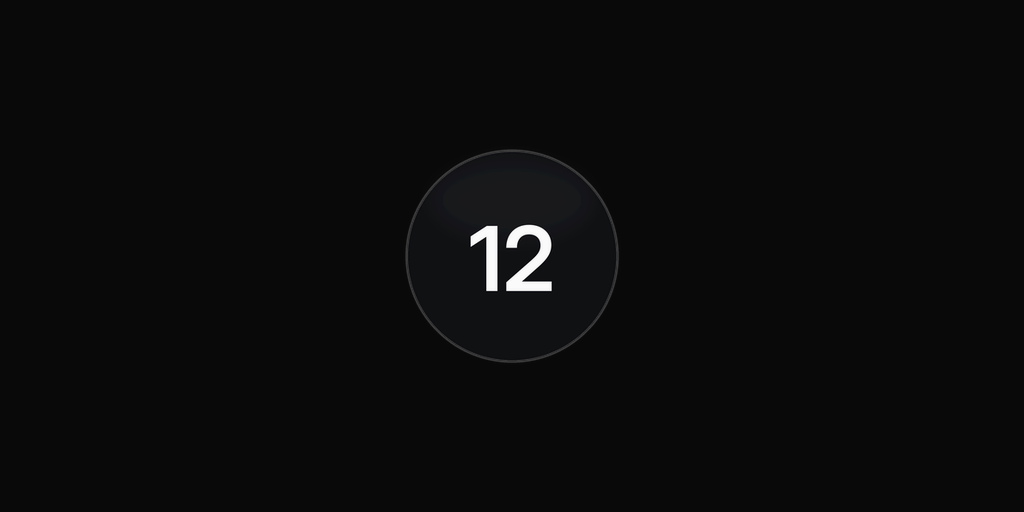
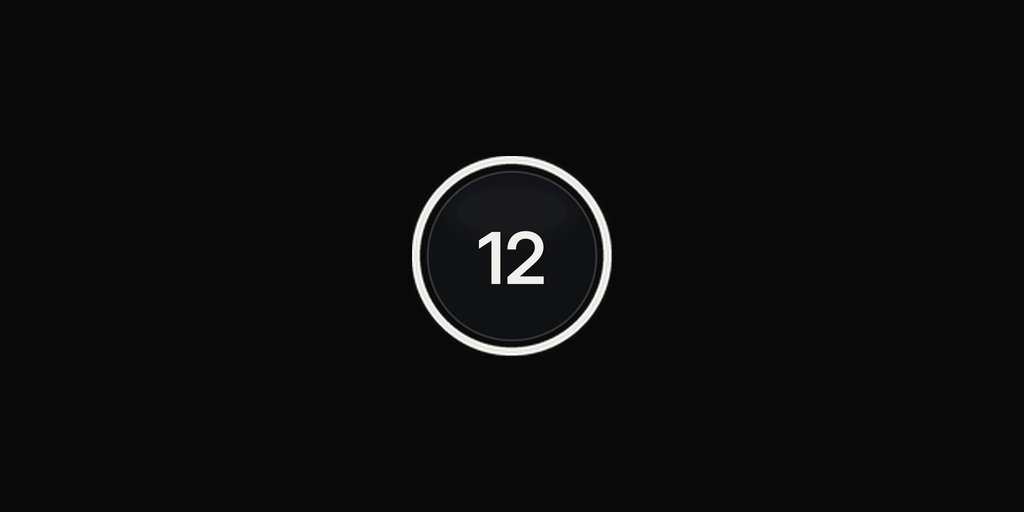
8.4.1: the mark, TAKE (12): boards and box say the name once (#61)
* 7.2.0: Show me (your face found by two camera views), Scenery's own Format, keys texture drop-in

- fit: Show me - Alt-click your face, Alt-drag a little; two still views meet at
  the face; kept per seat in your own frame; frame/people/friends frame it.
- crop: Scenery > Format, kept apart from yours (cin.crop_sc).
- keys: a dropped-in keys texture is adopted (UUID on the strip) and removed.
- tools/sim/showme_emu.py and hud_emu.py run these on the real scripts, in CI.

Claude-Session: https://claude.ai/code/session_017fxCDsK7kSKGLKYB8MXKf1

* 8.0 WIP: text, screen, bars, core, ui, portrait, tracking; strip art

Claude-Session: https://claude.ai/code/session_017fxCDsK7kSKGLKYB8MXKf1

* 8.0 WIP: fixed, scenic

Claude-Session: https://claude.ai/code/session_017fxCDsK7kSKGLKYB8MXKf1

* 8.0 WIP: sync (Connect), carry

Claude-Session: https://claude.ai/code/session_017fxCDsK7kSKGLKYB8MXKf1

* 8.0 WIP: emulator for 8.0, layout test, builder

Claude-Session: https://claude.ai/code/session_017fxCDsK7kSKGLKYB8MXKf1

* 8.0 WIP: free build generator, gestures test

Claude-Session: https://claude.ai/code/session_017fxCDsK7kSKGLKYB8MXKf1

* 8.0 WIP: shots and portrait tests; fixes they found

Claude-Session: https://claude.ai/code/session_017fxCDsK7kSKGLKYB8MXKf1

* 8.0 WIP: portrait test passes (tilt, lead room depth, two-shot side, timing fixed)

Claude-Session: https://claude.ai/code/session_017fxCDsK7kSKGLKYB8MXKf1
[…]

Changed region(s): [[0.375, 0.2812, 0.625, 0.7188]]

diff --git a/tools/art/make_adboard.py b/tools/art/make_adboard.py
@@ -1,14 +1,14 @@
 #!/usr/bin/env python3
-"""Take 12 marketing graphics (8.0.10) for the Second Life Marketplace and in-world vendors: cinema black.
+"""Take 12 marketing graphics (8.4.1) for the Second Life Marketplace and in-world vendors: the mark, quiet.
 
-No scene, no drawing: what a camera maker would print. A black board; a frame drawn the way a cinema monitor draws its
-frame lines (hairline corners, a faint centre mark, the frame and the lens written small at its top edge, the shot at
-its foot); under it the [12] (the HUD's own disc, from tools/art/make_strip.py), the name letter-spaced, one line, and a
-quiet row of what is inside. Inter throughout, white at three strengths, nothing else.
-  Take 12          a 2.39 frame   PORTRAIT · MEDIUM · ME     "A cinematic camera for Second Life."
-  Take 12 Scenery  a 2.39 frame   SCENIC · DRIFT             "Free. The place, while you are away."
+The [12] is the 12 (2026-10, the owner's pick of four directions): the word TAKE and the HUD's own [12] (its disc and
+its filming ring, from tools/art/make_strip.py) make one lockup, so the name is said once (the 8.2 boards set the [12]
+beside TAKE 12: twelve, twice). A black board, the lockup centred, one line under it, nothing else. Inter, white at two
+strengths.
+  Take 12          TAKE (12)            "Your Second Life, filmed."
+  Take 12 Scenery  TAKE (12) SCENERY    "Free. The place, while you are away."
 Formats: square 1:1 (1024), portrait 3:4 (768 x 1024), landscape 4:3 (1024 x 768), wide (1024 x 512), vendor
-(1024 and 512: bigger type, no row, read from across a store).
+(1024 and 512: bigger, read from across a store). tools/art/make_box.py dresses the box with the same lockup.
 
     python3 tools/art/make_adboard.py
 """
@@ -19,76 +19,57 @@ sys.path.insert(0, os.path.dirname(os.path.abspath(__file__)))
 import make_strip
 from make_strip import font, spaced, spaced_w
 
-NAME = "TAKE 12"
-TAGLINE = "A cinematic camera for Second Life."
-FREE_NAME, FREE_LINE = "TAKE 12 SCENERY", "Free. The place, while you are away."
+TAGLINE = "Your Second Life, filmed."
+FREE_NAME, FREE_LINE = "SCENERY", "Free. The place, while you are away."
 BLACK = (9, 9, 10)
 WHITE = make_strip.WHITE
-K = 2                                   # drawn at twice the size, then reduced: hairlines stay crisp
-
-
-def the(kind):
-    """each product's name, line, the shot written at the frame's foot, and the row of what is inside"""
-    if kind == "free":
-        return FREE_NAME, FREE_LINE, "SCENIC  ·  DRIFT", "DRIFT  ·  NEAR  ·  ROOM  ·  FAR"
-    return NAME, TAGLINE, "PORTRAIT  ·  MEDIUM  ·  ME", "TRACKING  ·  PORTRAIT  ·  FIXED  ·  SCENIC"
+K = 2                                   # drawn at twice the size, then reduced: edges stay crisp
 
 
 def a(v): return WHITE + (int(255 * v),)
 
 
-def frame_lines(d, x0, y0, x1, y1, u, top_l, top_r, foot):
-    """a monitor's frame lines: corners, a centre mark, small writing at the edges"""
-    c = int(u * 0.045)                               # corner arm
-    t = max(K, int(u * 0.0026))                      # hairline
-    for (x, y, sx, sy) in ((x0, y0, 1, 1), (x1, y0, -1, 1), (x0, y1, 1, -1), (x1, y1, -1, -1)):
-        d.rectangle([min(x, x + sx * c), y - (t if sy < 0 else 0), max(x, x + sx * c), y + (t if sy > 0 else 0)], fill=a(0.85))
-        d.rectangle([x - (t if sx < 0 else 0), min(y, y + sy * c), x + (t if sx > 0 else 0), max(y, y + sy * c)], fill=a(0.85))
-    d.rectangle([x0, y0, x1, y1], outline=a(0.14), width=max(1, t // 2))       # the frame itself, barely there
-    mx, my, m = (x0 + x1) // 2, (y0 + y1) // 2, int(u * 0.012)
-    d.rectangle([mx - m, my - t // 2, mx + m, my + t // 2], fill=a(0.35))
-    d.rectangle([mx - t // 2, my - m, mx + t // 2, my + m], fill=a(0.35))
-    f = font("Inter-Medium.otf", int(u * 0.019))
-    g = int(u * 0.016)
-    spaced(d, x0, y0 - g, top_l, f, a(0.6), 0.16)
-    spaced(d, x1 - spaced_w(top_r, f, 0.16), y0 - g, top_r, f, a(0.6), 0.16)
-    spaced(d, mx - spaced_w(foot, f, 0.16) / 2, y1 - g * 1.6, foot, f, a(0.75), 0.16)
+def mark(px):
+    """the [12] as on the HUD while it films: the disc, and its thin ring round it"""
+    im = Image.new("RGBA", (px, px), (0, 0, 0, 0))
+    d = int(px * 0.88)
+    im.alpha_composite(make_strip.disc(WHITE).resize((d, d), Image.LANCZOS), ((px - d) // 2, (px - d) // 2))
+    ring = make_strip.ring(1.0, track=False, width=5).resize((int(px * 64 / 60), int(px * 64 / 60)), Image.LANCZOS)
+    o = (px - ring.width) // 2
+    im.alpha_composite(ring.crop((-o, -o, -o + px, -o + px)) if o < 0 else ring, (max(o, 0), max(o, 0)))
+    return im
+
+
+def lockup(h):
+    """TAKE, and the [12] as its second word: an image h px tall (the cap height), the mark 1.62 h"""
+    f = font("InterDisplay-Bold.otf", int(h))
+    tw = spaced_w("TAKE", f, 0.06)
+    dp = int(h * 1.62)
+    gap = int(h * 0.22)
+    im = Image.new("RGBA", (int(tw + gap + dp + 4), dp + 4), (0, 0, 0, 0))
+    spaced(ImageDraw.Draw(im), 0, dp / 2 + h * 0.02, "TAKE", f, a(0.97), 0.06)
+    im.alpha_composite(mark(dp), (int(tw + gap), 0))
+    return im
 
 
 def board(W, H, kind, big=1.0):
     w, h = W * K, H * K
     im = Image.new("RGBA", (w, h), BLACK + (255,))
     d = ImageDraw.Draw(im)
-    name, line, foot, row = the(kind)
-    u = (w * h) ** 0.5
-    wide = w / h >= 1.6
-    row_on = big == 1.0 and not wide                 # the row needs the room a wide board has not got
-    ic = int(u * 0.075 * big)
-    fn = font("InterDisplay-SemiBold.otf", int(u * 0.058 * big))
-    fl = font("Inter-Regular.otf", int(u * 0.026 * big))
-    # one block, centred: the 2.39 frame, the [12] with the name, the line (the row keeps to the foot)
-    fw = w * (0.62 if wide else 0.80)
-    fh = fw / 2.39
-    g1, g2 = int(u * 0.11 * big), int(u * 0.045 * big)
-    block = fh + g1 + ic + g2 + fl.size
-    room = h - (int(u * 0.10) if row_on else 0)
-    y0 = int((room - block) / 2 + u * 0.01)
-    x0, x1 = int((w - fw) / 2), int((w + fw) / 2)
-    y1 = int(y0 + fh)
-    frame_lines(d, x0, y0, x1, y1, u, "2.39", "35 MM", foot)
-    nw = spaced_w(name, fn, 0.22)
-    gap = int(u * 0.028)
-    x = (w - (ic + gap + nw)) / 2
-    y = y1 + g1
-    disc = make_strip.disc((255, 255, 255)).resize((ic, ic), Image.LANCZOS)
-    im.alpha_composite(disc, (int(x), int(y)))
-    spaced(d, x + ic + gap, y + ic / 2 + int(u * 0.002), name, fn, a(0.96), 0.22)
-    ly = y + ic + g2
-    d.text((w / 2, ly), line, font=fl, fill=a(0.62), anchor="mm")
-    if row_on:                                       # the row of what is inside: the quietest thing on the board
-        fr = font("Inter-Medium.otf", int(u * 0.017))
-        rw = spaced_w(row, fr, 0.2)
-        spaced(d, (w - rw) / 2, h - int(u * 0.06), row, fr, a(0.38), 0.2)
+    u = min(w, h)
+    L = lockup(u * 0.105 * big)
+    fl = font("Inter-Regular.otf", int(u * 0.03 * big))
+    sub = font("Inter-Medium.otf", int(u * 0.026 * big))
+    line = FREE_LINE if kind == "free" else TAGLINE
+    g1, g2 = int(u * 0.075 * big), int(u * 0.05 * big)
+    block = L.height + g1 + fl.size + ((sub.size + g2) if kind == "free" else 0)
+    y = (h - block) / 2
+    im.alpha_composite(L, (int((w - L.width) / 2), int(y)))
+    y += L.height + g1
+    if kind == "free":                               # the free build: SCENERY under the mark, then its line
+        spaced(d, (w - spaced_w(FREE_NAME, sub, 0.42)) / 2, y + sub.size / 2, FREE_NAME, sub, a(0.85), 0.42)
+        y += sub.size + g2
+    d.text((w / 2, y + fl.size / 2), line, font=fl, fill=a(0.6), anchor="mm")
     return im.resize((W, H), Image.LANCZOS).convert("RGB")
 
 

diff --git a/tools/art/make_box.py b/tools/art/make_box.py
@@ -1,6 +1,7 @@
 #!/usr/bin/env python3
-"""Take 12: the box's three textures (8.2.0). Cinema black, as the boards: the board on the front (and back), the name
-on the sides, the [12] on the lid. hud/box/unpack.lsl puts them on a 0.45 x 0.25 x 0.45 m box by itself.
+"""Take 12: the box's three textures (8.2.0; the mark, 8.4.1). Cinema black, as the boards: the board on the front
+(and back, and the card on screen while the worn box unpacks), TAKE (12) up the sides, the [12] alone on the lid.
+hud/box/unpack.lsl puts them on a 0.45 x 0.25 x 0.45 m box by itself.
 
     python3 tools/art/make_box.py      -> hud/box/take12_box_front.png (1024), _side (512 x 1024), _top (1024 x 512)
 """
@@ -8,32 +9,25 @@ import os, sys
 from PIL import Image, ImageDraw
 
 sys.path.insert(0, os.path.dirname(os.path.abspath(__file__)))
-import make_strip as MS
 import make_adboard as AB
-from make_strip import font, spaced, spaced_w
 
 OUT = os.path.join(os.path.dirname(os.path.abspath(__file__)), "..", "..", "hud", "box")
 BLACK = AB.BLACK
 
 
 def side():
-    """the spine: TAKE 12 upright, letter-spaced, and the line small under it"""
+    """the spine: TAKE (12), upright"""
     t = Image.new("RGBA", (1024, 512), BLACK + (255,))
-    d = ImageDraw.Draw(t)
-    f = font("InterDisplay-SemiBold.otf", 96)
-    w = spaced_w(AB.NAME, f, 0.3)
-    spaced(d, 512 - w / 2, 230, AB.NAME, f, AB.a(0.95), 0.3)
-    fl = font("Inter-Medium.otf", 26)
-    line = "A CINEMATIC CAMERA FOR SECOND LIFE"
-    spaced(d, 512 - spaced_w(line, fl, 0.2) / 2, 330, line, fl, AB.a(0.45), 0.2)
+    L = AB.lockup(104)
+    t.alpha_composite(L, ((1024 - L.width) // 2, (512 - L.height) // 2))
     return t.rotate(90, expand=True).convert("RGB")
 
 
 def top():
     """the lid: the [12], alone"""
     t = Image.new("RGBA", (1024, 512), BLACK + (255,))
-    disc = MS.disc((255, 255, 255)).resize((220, 220), Image.LANCZOS)
-    t.alpha_composite(disc, (402, 146))
+    m = AB.mark(200)
+    t.alpha_composite(m, (512 - 100, 256 - 100))
     return t.convert("RGB")
 
 

diff --git a/tools/sim/listing_check.py b/tools/sim/listing_check.py
@@ -50,8 +50,8 @@ for name, text in LISTINGS:
 const = lambda n: re.search(r"^" + n + r' = "(.*?)"', art, re.M).group(1)
 check(const("TAGLINE") in main, "listing: the boards' line is not in the listing")
 fn_, fl = re.search(r'^FREE_NAME, FREE_LINE = "(.*?)", "(.*?)"', art, re.M).groups()
-check(fl in free and fn_ == "TAKE 12 SCENERY", "the free boards' name and line must be in its listing")
-check("make_strip.disc(" in art and "make_icon" not in art and "WATCH" not in art, "boards: the [12] disc, no clapper, no Watch")
+check(fl in free and fn_ == "SCENERY", "the free boards' name (TAKE (12) SCENERY) and line must be in its listing")
+check("make_strip.disc(" in art and "12 TAKE" not in art and "make_icon" not in art and "WATCH" not in art, "boards: the [12] disc, no clapper, no Watch")
 SIZES = {"adboard_square_1024.png": (1024, 1024), "adboard_wide_1024x512.png": (1024, 512), "adboard_portrait_3x4_768x1024.png": (768, 1024),
          "adboard_landscape_4x3_1024x768.png": (1024, 768), "adboard_vendor_1024.png": (1024, 1024), "adboard_vendor_512.png": (512, 512)}
 n = 0

diff --git a/hud/marketing/README.md b/hud/marketing/README.md
@@ -4,9 +4,9 @@
 |---|---|
 | `marketplace_listing.md` | Copy-paste text for the Marketplace listing (8.0): name, description, features, tags, promo lines, the "what is new" message, image list |
 | `legacy/` | The earlier listings and intros (4.4, 4.8) |
-| `adboard_square_1024.png` | The Marketplace main image, cinema black: a 2.39 frame as a monitor draws it, the [12], "TAKE 12" and "A cinematic camera for Second Life." |
-| `adboard_portrait_3x4_768x1024.png`, `adboard_landscape_4x3_1024x768.png`, `adboard_wide_1024x512.png` | The same frame in the other ratios |
-| `adboard_vendor_1024.png`, `adboard_vendor_512.png` | The same frame with bigger type, for in-world vendor displays |
+| `adboard_square_1024.png` | The Marketplace main image, cinema black: the mark, TAKE (12) (the word and the HUD's own [12] as its 12, so the name is said once), and "Your Second Life, filmed." |
+| `adboard_portrait_3x4_768x1024.png`, `adboard_landscape_4x3_1024x768.png`, `adboard_wide_1024x512.png` | The same in the other ratios |
+| `adboard_vendor_1024.png`, `adboard_vendor_512.png` | The same, bigger, for in-world vendor displays |
 
 The free Take 12 Scenery has its own listing and boards in `scenery/marketing/`. Regenerate all of them with
 `python3 tools/art/make_adboard.py`. They are typographic on purpose (Inter, white on black, no scenes); real snapshots

diff --git a/CHANGELOG.md b/CHANGELOG.md
@@ -1,5 +1,15 @@
 # Changelog
 
+## 8.4.1 (the mark: TAKE (12))
+- **The boards and the box say the name once.** The 8.2 boards set the [12] beside "TAKE 12", which read "12 TAKE 12".
+  Now the [12] is the 12: the word TAKE and the HUD's own [12] (its disc and filming ring) make one lockup, quiet and
+  centred on black, with one line: "Your Second Life, filmed." (the owner's pick of four directions). The Scenery
+  boards: TAKE (12), SCENERY, "Free. The place, while you are away."
+- The box: the lockup on the front (also the card on screen while the worn box unpacks), TAKE (12) up the sides, the
+  [12] alone on the lid. Upload the three box textures again.
+- Gone from the boards: the shot list (TRACKING · PORTRAIT · FIXED · SCENIC), the frame lines and the old 35 mm.
+- No script changes.
+
 ## 8.4.0 (Auto: the guide; the box you wear)
 - **Auto was stuck in Portrait.** It waited for 2 s of walking and kept a shot 8 s, so walking a room in short steps
   never got past Portrait, and you watched yourself walk. Reproduced in the emulator (whose keys now give a walking

diff --git a/hud/marketing/marketplace_listing.md b/hud/marketing/marketplace_listing.md
@@ -25,7 +25,7 @@ A cinematic camera for Second Life. Four shots on one quiet strip: it follows yo
 
 ## Full description
 ```
-A cinematic camera for Second Life.
+A cinematic camera for Second Life. Your Second Life, filmed.
 
 Take 12 sits at the top of your screen like a cinema camera's display: one thin line of words, and the [12]. Double-tap it for the strip.
 
